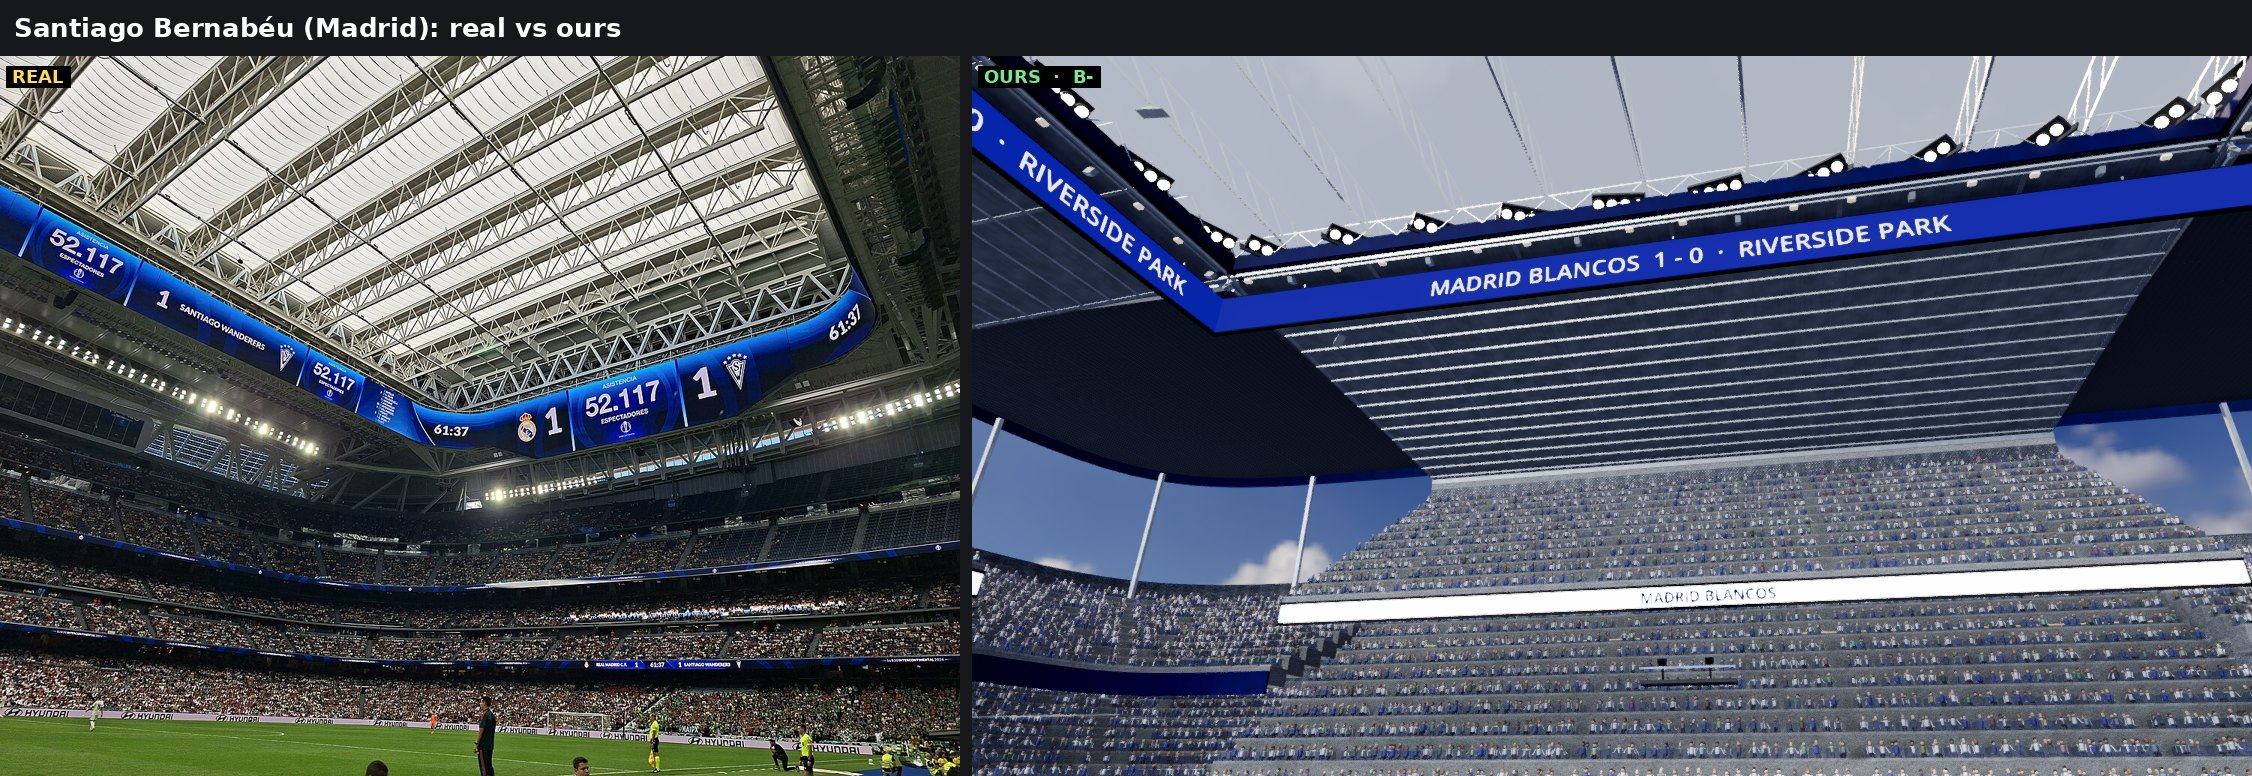
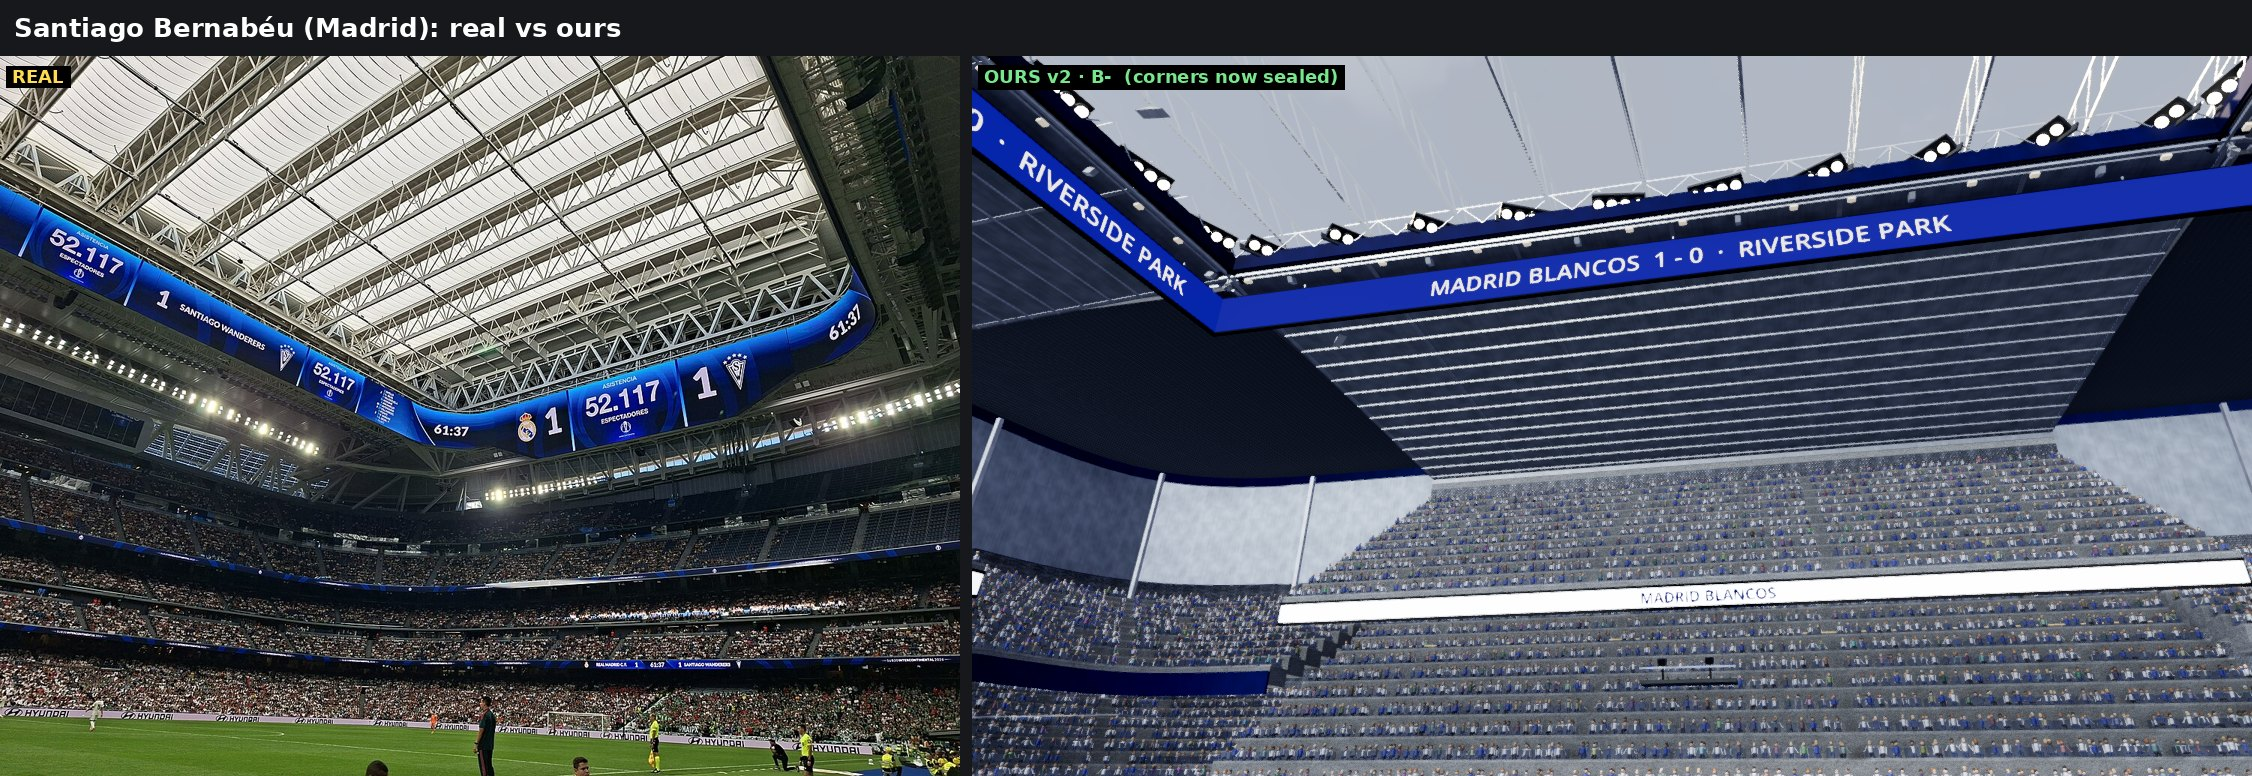
Recreation: Bernabéu v2, corners sealed under the lid
Claude-Session: https://claude.ai/code/session_019GL9DZKUN4T6LdW8KYydwH

diff --git a/RECREATION_CHALLENGE.md b/RECREATION_CHALLENGE.md
@@ -24,7 +24,7 @@ sides: `docs/recreation/compare/`.
 
 | Parc des Princes | C | C+ (v2) | New "concrete ribs" facade: leaning ribs that rise over the roof, round the corners too; grey ring roof with girders; blue seats | The real ribs are fewer, fatter and curve out over a much lower bowl; the roof is a flat ring of grey panels between the ribs; ours is too tall |
 | Celtic Park | C | B- (v2, full house) | Green steelwork, 2-tier stands, rounded corners, name on the main stand roof | v2: a full green-and-white house. The real main stand roof is much higher and lighter; seats are near-black |
-| Santiago Bernabéu | - | B- | Closed lattice lid over the pitch, 360° video ring with the score, 3 tiers with LED tier fronts, steel-plate walls, roof floodlights | The real lid is lighter and translucent with deep white trusses; its ring curves in at the corners while ours leaves open sky between the corner roofs and the lid (a gap to fix); the real tier fronts are thin LED strips |
+| Santiago Bernabéu | - | B- | Closed lattice lid over the pitch, 360° video ring with the score, 3 tiers with LED tier fronts, steel-plate walls, roof floodlights | The real lid is lighter and translucent with deep white trusses; its ring curves in at the corners. v2: the closed lid now runs over the whole bowl with a skirt down to the stand tops, so no sky shows at the corners. The real tier fronts are thin LED strips |
 
 What round 2 added to the game (all player tools, not special cases):
 A-frame and box-girder pylons with their own paint; roof ends open / closed /
